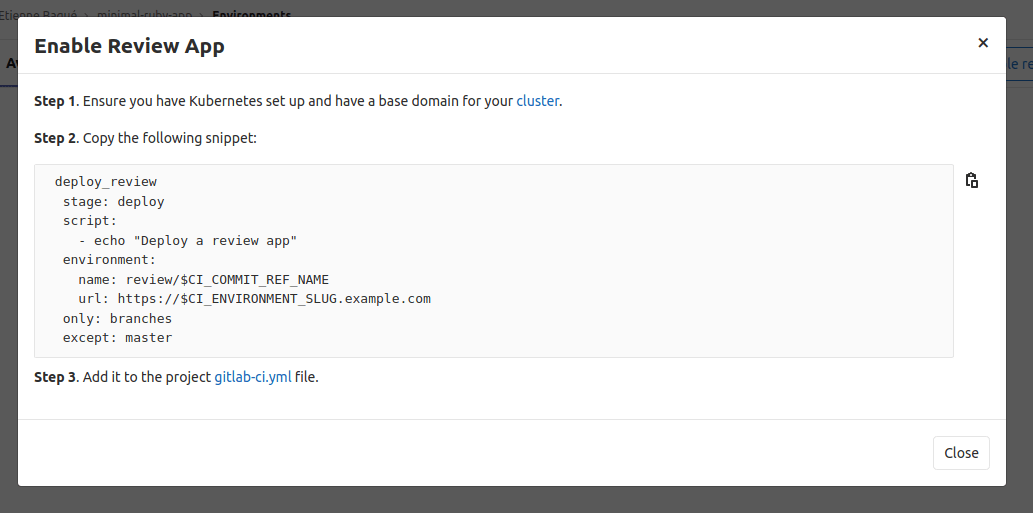
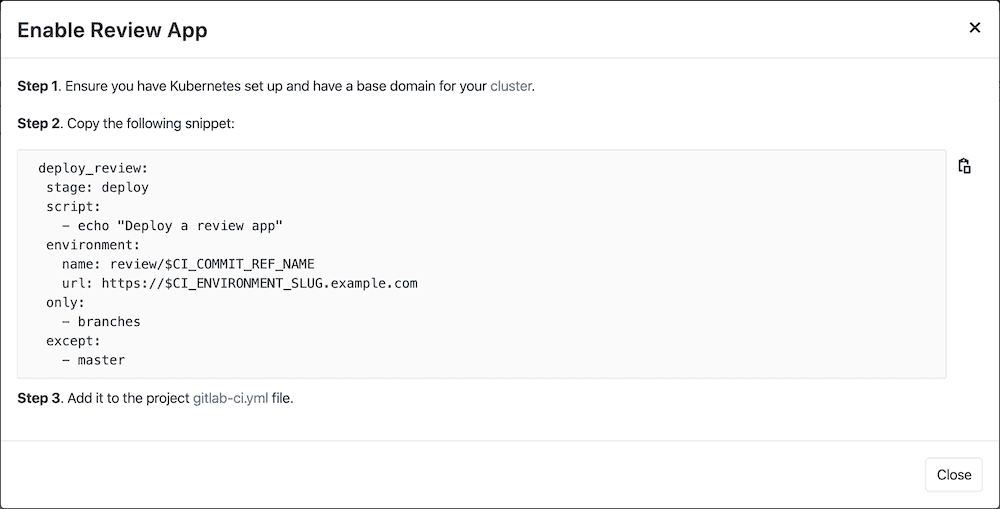
Fixing YML in review app docs and screenshot
- There's a screenshot
https://docs.gitlab.com/ee/ci/review_apps/#enable-review-apps-button
with incorrect YML. The incorrect YML was also inside the application.
This commit fixes the YML and the screenshot so that it will pass the
CI linting.

Changed region(s): [[0.0, 0.0, 1.0, 1.0]]

diff --git a/app/assets/javascripts/environments/components/enable_review_app_button.vue b/app/assets/javascripts/environments/components/enable_review_app_button.vue
@@ -26,15 +26,17 @@ export default {
   modalInfo: {
     closeText: s__('EnableReviewApp|Close'),
     copyToClipboardText: s__('EnableReviewApp|Copy snippet text'),
-    copyString: `deploy_review
+    copyString: `deploy_review:
   stage: deploy
   script:
     - echo "Deploy a review app"
   environment:
     name: review/$CI_COMMIT_REF_NAME
     url: https://$CI_ENVIRONMENT_SLUG.example.com
-  only: branches
-  except: master`,
+  only:
+    - branches
+  except:
+    - master`,
     id: 'enable-review-app-info',
     title: s__('ReviewApp|Enable Review App'),
   },
